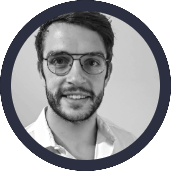
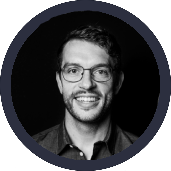
Updated profile pic and added Team Rockstars IT section

diff --git a/index.html b/index.html
@@ -102,7 +102,7 @@
       <div class="d-flex flex-column">
         <div class="profile">
           <img
-            src="assets/img/Henry Langenhoven Profile Pic.png"
+            src="assets/img/Henry Team Rockstars Profile Pic 2023.jpg"
             alt=""
             class="img-fluid rounded-circle"
           />
@@ -209,7 +209,7 @@
           <div class="row">
             <div class="col-lg-4" data-aos="fade-right">
               <img
-                src="assets/img/Henry Langenhoven Profile Pic.png"
+                src="assets/img/Henry Team Rockstars Profile Pic 2023.jpg"
                 class="img-fluid"
                 alt=""
               />
@@ -521,8 +521,21 @@
               <h2 class="resume-title">Professional Experience</h2>
               <div class="resume-item">
                 <h3>Senior Software Engineer</h3>
+                <h4>Team Rockstars IT · Full-time</h4>
+                <h5>Aug 2023 - Present</h5>
+                <p><em>'s-Hertogenbosch, Netherlands · Hybrid</em></p>
+                <p></p>
+                <ul>
+                  <li>
+                    Started a new position at Team Rockstars IT.
+                    More info to follow soon.
+                  </li>
+                </ul>
+              </div>
+              <div class="resume-item">
+                <h3>Senior Software Engineer</h3>
                 <h4>Capgemini · Full-time</h4>
-                <h5>Mar 2021 - Present</h5>
+                <h5>Mar 2021 - Jul 2023</h5>
                 <p><em>Utrecht, Netherlands · Hybrid</em></p>
                 <p></p>
                 <ul>
